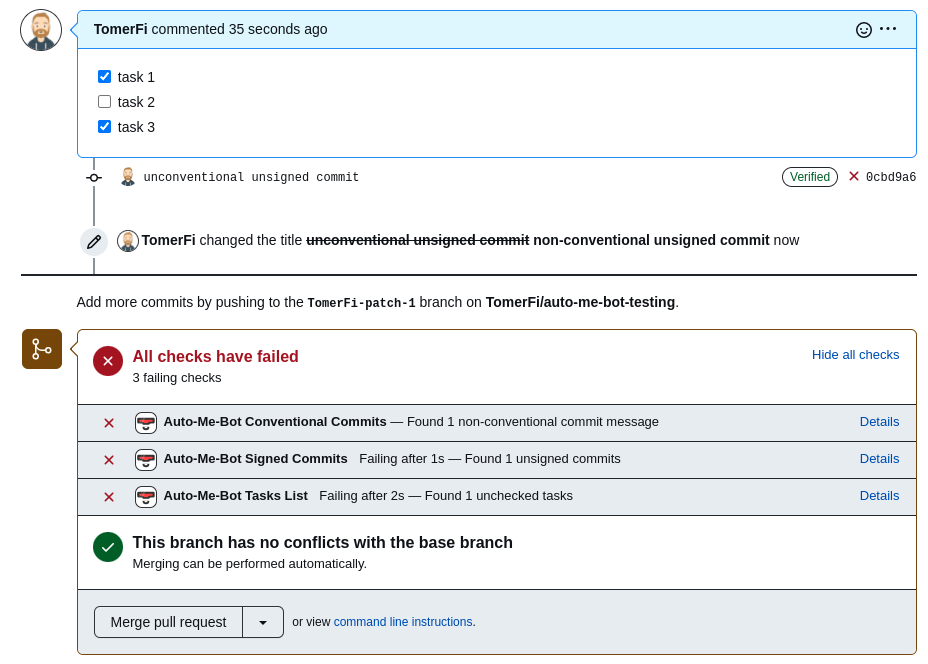
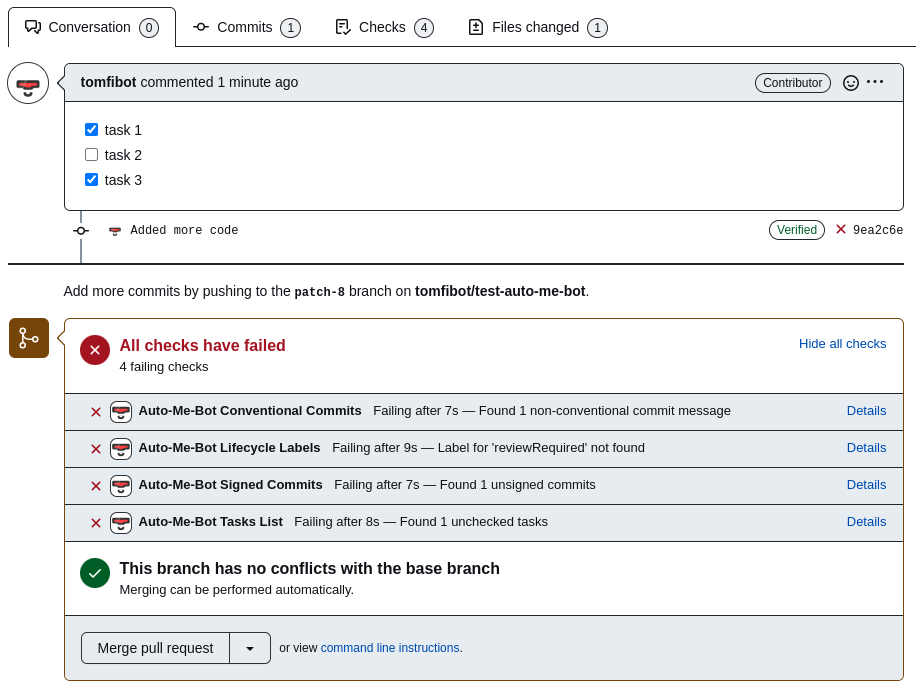
fix: lifecycle labels handler is buggy, plus added docs

Changed region(s): [[0.0, 0.3012, 1.0, 0.994], [0.0, 0.0, 1.0, 0.3012]]

diff --git a/tests/handlers/pr-lifecycle-labels.test.js b/tests/handlers/pr-lifecycle-labels.test.js
@@ -21,12 +21,12 @@ suite('Testing the pr-lifecycle-labels', () => {
 
         ['submitted', 'edited', 'dismissed'].forEach(action => {
             test(`Test pull_request_review event type with ${action} action type, expect a match` , () => {
-                expect(sut.match({ payload: { pull_request_review: {}, action: action } })).to.be.true;
+                expect(sut.match({ payload: { review: {}, pull_request: {}, action: action } })).to.be.true;
             });
         });
 
         test('Test pull_request_review event type with an unknown action type, expect a false match' , () => {
-            expect(sut.match({ payload: { pull_request_review: {}, action: 'unknownAction' } })).to.be.false;
+            expect(sut.match({ payload: { review: {}, pull_request: {}, action: 'unknownAction' } })).to.be.false;
         });
 
         test('Test an unknown event type, expect a false match', () => {
@@ -53,6 +53,8 @@ suite('Testing the pr-lifecycle-labels', () => {
         const fakePRNumber = 66;
         const fakeOwner = 'jonDoe';
         const fakeRepository = 'aProject';
+        const fakeReviewer1 = 'ReviewerReviewerzon';
+        const fakeReviewer2 = 'ReviewerNoLastName';
 
         // expected objects
         const baseExpectedUpdateCheck = {
@@ -98,7 +100,6 @@ suite('Testing the pr-lifecycle-labels', () => {
             // create a fake context for invoking the application with (base)
             baseFakeContext = Object.freeze({
                 payload: {
-                    number: fakePRNumber,
                     pull_request: {
                         base: {
                             ref: fakeBaseRef
@@ -106,7 +107,8 @@ suite('Testing the pr-lifecycle-labels', () => {
                         head: {
                             sha: fakeHeadSha
                         },
-                        labels: []
+                        labels: [],
+                        number: fakePRNumber
                     }
                 },
                 octokit: {
@@ -448,7 +450,7 @@ suite('Testing the pr-lifecycle-labels', () => {
             getLabelStub.withArgs({...getRepositoryInfoResponse, name: 'waiting 4 review'}).resolves({status: 200});
             // given the addLabels function will succeed
             addLabelsStub.resolves({status: 200});
-            // given the listReviews function will return an empty list of reviews
+            // given the listReviews function will return faulty response
             listReviewStub.withArgs({...getPullRequestInfoResponse}).resolves({status: 300, message: 'sup with that'})
             // when invoking the handler with the fake context, a fake config, and a iso timestamp
             await sut.run(fakeContext, config, new Date().toISOString());
@@ -485,7 +487,7 @@ suite('Testing the pr-lifecycle-labels', () => {
             getLabelStub.withArgs({...getRepositoryInfoResponse, name: 'waiting 4 review'}).resolves({status: 200});
             // given the addLabels function will succeed
             addLabelsStub.resolves({status: 200});
-            // given the listReviews function will return an empty list of reviews
+            // given the listReviews function will be rejected
             listReviewStub.withArgs({...getPullRequestInfoResponse}).rejects('let go');
             // when invoking the handler with the fake context, a fake config, and a iso timestamp
             await sut.run(fakeContext, config, new Date().toISOString());
@@ -514,7 +516,7 @@ suite('Testing the pr-lifecycle-labels', () => {
                 labels: {
                     changesRequested: 'changes were requested'
                 }
-            }
+            };
             // given a pull request is opened
             let fakeContext = { ...baseFakeContext }
             fakeContext.payload.action = 'opened';
@@ -522,8 +524,12 @@ suite('Testing the pr-lifecycle-labels', () => {
             getLabelStub.withArgs({...getRepositoryInfoResponse, name: 'changes were requested'}).resolves({status: 200});
             // given the addLabels function will succeed for the following argument
             addLabelsStub.resolves({status: 200});
-            // given the listReviews function will return an empty list of reviews
-            listReviewStub.withArgs({...getPullRequestInfoResponse}).resolves({status: 200, data: [{state: 'CHANGES_REQUESTED'}]})
+            // given the listReviews function will return an empty list of 1 changes requesting review
+            listReviewStub.withArgs({...getPullRequestInfoResponse}).resolves({status: 200, data: [{
+                state: 'CHANGES_REQUESTED',
+                commit_id: fakeHeadSha,
+                user: {login: fakeReviewer1}}]
+            });
             // when invoking the handler with the fake context, a fake config, and a iso timestamp
             await sut.run(fakeContext, config, new Date().toISOString());
             // then verify a check run to be created and updated as expected
@@ -557,8 +563,19 @@ suite('Testing the pr-lifecycle-labels', () => {
             getLabelStub.withArgs({...getRepositoryInfoResponse, name: 'review has started'}).resolves({status: 200});
             // given the addLabels function will succeed for the following argument
             addLabelsStub.resolves({status: 200});
-            // given the listReviews function will return an empty list of reviews
-            listReviewStub.withArgs({...getPullRequestInfoResponse}).resolves({status: 200, data: [{state: 'NOTHING_SPECIAL'}, {state: 'MAKING_UP_STATES'}]})
+            // given the listReviews function will return an empty list 2 commenting reviews
+            listReviewStub.withArgs({...getPullRequestInfoResponse}).resolves({status: 200, data: [
+                {
+                    state: 'COMMENTED',
+                    commit_id: fakeHeadSha,
+                    user: {login: fakeReviewer1}
+                },
+                {
+                    state: 'COMMENTED',
+                    commit_id: fakeHeadSha,
+                    user: {login: fakeReviewer1}
+                }
+            ]});
             // when invoking the handler with the fake context, a fake config, and a iso timestamp
             await sut.run(fakeContext, config, new Date().toISOString());
             // then verify a check run to be created and updated as expected
@@ -592,9 +609,20 @@ suite('Testing the pr-lifecycle-labels', () => {
             getLabelStub.withArgs({...getRepositoryInfoResponse, name: 'this pr is approved'}).resolves({status: 200});
             // given the addLabels function will succeed for the following argument
             addLabelsStub.resolves({status: 200});
-            // given the listReviews function will return an empty list of reviews
-            listReviewStub.withArgs({...getPullRequestInfoResponse}).resolves({status: 200, data: [{state: 'APPROVED'}, {state: 'APPROVED'}]})
-            //
+            // given the listReviews function will return an empty list of 2 approving reviews from 2 different users
+            listReviewStub.withArgs({...getPullRequestInfoResponse}).resolves({status: 200, data: [
+                {
+                    state: 'APPROVED',
+                    commit_id: fakeHeadSha,
+                    user: {login: fakeReviewer1}
+                },
+                {
+                    state: 'APPROVED',
+                    commit_id: fakeHeadSha,
+                    user: {login: fakeReviewer2}
+                }
+            ]});
+            // given the branch protection is configured to require 2 approvals
             branchProtectFuncStub.withArgs({...getRepositoryInfoResponse, branch: fakeBaseRef}).resolves({
                 status: 200,
                 data: {
@@ -636,9 +664,13 @@ suite('Testing the pr-lifecycle-labels', () => {
             getLabelStub.withArgs({...getRepositoryInfoResponse, name: 'we need more approvals'}).resolves({status: 200});
             // given the addLabels function will succeed for the following argument
             addLabelsStub.resolves({status: 200});
-            // given the listReviews function will return an empty list of reviews
-            listReviewStub.withArgs({...getPullRequestInfoResponse}).resolves({status: 200, data: [{state: 'APPROVED'}]})
-            //
+            // given the listReviews function will return an empty list of 1 approving review
+            listReviewStub.withArgs({...getPullRequestInfoResponse}).resolves({status: 200, data: [{
+                state: 'APPROVED',
+                commit_id: fakeHeadSha,
+                user: {login: fakeReviewer1}
+            }]});
+            // given the branch protection is configured to require 2 approvals
             branchProtectFuncStub.withArgs({...getRepositoryInfoResponse, branch: fakeBaseRef}).resolves({
                 status: 200,
                 data: {
@@ -658,7 +690,7 @@ suite('Testing the pr-lifecycle-labels', () => {
             expect(addLabelsStub).to.have.been.calledOnceWith({...getRepositoryInfoResponse, issue_number: fakePRNumber, labels: ['we need more approvals']});
         });
 
-        test('Test with getBranchProtection API endpoint response not successful, expect the moreReviewsRequired label to be added to the pr', async () => {
+        test('Test with getBranchProtection API endpoint response not successful, expect the approved label to be added to the pr', async () => {
             // expected check update request parts
             let expectedUpdateCheck = { ...baseExpectedUpdateCheck, ...{
                 conclusion: 'success',
@@ -670,18 +702,22 @@ suite('Testing the pr-lifecycle-labels', () => {
             // given the merged and reviewStarted lifecycle label is configured
             let config = {
                 labels: {
-                    moreReviewsRequired: 'we need more approvals'
+                    approved: 'this pr is approved'
                 }
             }
             // given a pull request is opened
             let fakeContext = { ...baseFakeContext }
             fakeContext.payload.action = 'opened';
             // given the getLabel function will resolved to code 200 indicating the label exists
-            getLabelStub.withArgs({...getRepositoryInfoResponse, name: 'we need more approvals'}).resolves({status: 200});
+            getLabelStub.withArgs({...getRepositoryInfoResponse, name: 'this pr is approved'}).resolves({status: 200});
             // given the addLabels function will succeed for the following argument
             addLabelsStub.resolves({status: 200});
-            // given the listReviews function will return an empty list of reviews
-            listReviewStub.withArgs({...getPullRequestInfoResponse}).resolves({status: 200, data: [{state: 'APPROVED'}]})
+            // given the listReviews function will return an empty list of 1 approving review
+            listReviewStub.withArgs({...getPullRequestInfoResponse}).resolves({status: 200, data: [{
+                state: 'APPROVED',
+                commit_id: fakeHeadSha,
+                user: {login: fakeReviewer1}
+            }]});
             // given the getBranchProtection function will return unsuccessful
             branchProtectFuncStub.withArgs({...getRepositoryInfoResponse, branch: fakeBaseRef}).resolves({status: 300, message: 'ok ok ok'});
             // when invoking the handler with the fake context, a fake config, and a iso timestamp
@@ -692,10 +728,10 @@ suite('Testing the pr-lifecycle-labels', () => {
             // then no label should be removed
             expect(removeLabelStub).to.have.not.been.called;
             // then the 'we need more approvals' label should be added
-            expect(addLabelsStub).to.have.been.calledOnceWith({...getRepositoryInfoResponse, issue_number: fakePRNumber, labels: ['we need more approvals']});
+            expect(addLabelsStub).to.have.been.calledOnceWith({...getRepositoryInfoResponse, issue_number: fakePRNumber, labels: ['this pr is approved']});
         });
 
-        test('Test with getBranchProtection API endpoint response promise rejection, expect the moreReviewsRequired label to be added to the pr', async () => {
+        test('Test with getBranchProtection API endpoint response promise rejection, expect the approved label to be added to the pr', async () => {
             // expected check update request parts
             let expectedUpdateCheck = { ...baseExpectedUpdateCheck, ...{
                 conclusion: 'success',
@@ -707,18 +743,22 @@ suite('Testing the pr-lifecycle-labels', () => {
             // given the merged and reviewStarted lifecycle label is configured
             let config = {
                 labels: {
-                    moreReviewsRequired: 'we need more approvals'
+                    approved: 'this pr is approved'
                 }
             }
             // given a pull request is opened
             let fakeContext = { ...baseFakeContext }
             fakeContext.payload.action = 'opened';
             // given the getLabel function will resolved to code 200 indicating the label exists
-            getLabelStub.withArgs({...getRepositoryInfoResponse, name: 'we need more approvals'}).resolves({status: 200});
+            getLabelStub.withArgs({...getRepositoryInfoResponse, name: 'this pr is approved'}).resolves({status: 200});
             // given the addLabels function will succeed for the following argument
             addLabelsStub.resolves({status: 200});
-            // given the listReviews function will return an empty list of reviews
-            listReviewStub.withArgs({...getPullRequestInfoResponse}).resolves({status: 200, data: [{state: 'APPROVED'}]})
+            // given the listReviews function will return an empty list with 1 approving review
+            listReviewStub.withArgs({...getPullRequestInfoResponse}).resolves({status: 200, data: [{
+                state: 'APPROVED',
+                commit_id: fakeHeadSha,
+                user: {login: fakeReviewer1}
+            }]});
             // given the getBranchProtection function will be rejected
             branchProtectFuncStub.withArgs({...getRepositoryInfoResponse, branch: fakeBaseRef}).rejects('get out of here');
             // when invoking the handler with the fake context, a fake config, and a iso timestamp
@@ -729,7 +769,7 @@ suite('Testing the pr-lifecycle-labels', () => {
             // then no label should be removed
             expect(removeLabelStub).to.have.not.been.called;
             // then the 'we need more approvals' label should be added
-            expect(addLabelsStub).to.have.been.calledOnceWith({...getRepositoryInfoResponse, issue_number: fakePRNumber, labels: ['we need more approvals']});
+            expect(addLabelsStub).to.have.been.calledOnceWith({...getRepositoryInfoResponse, issue_number: fakePRNumber, labels: ['this pr is approved']});
         });
     });
 });

diff --git a/src/handlers/pr-lifecycle-labels.js b/src/handlers/pr-lifecycle-labels.js
@@ -30,15 +30,16 @@ module.exports.match = function(context) {
     let eventPr = 'pull_request';
     let actionsPr = ['opened', 'edited', 'synchronize', 'closed', 'ready_for_review', 'reopened'];
 
-    let eventPrReview = 'pull_request_review';
+    let eventPrReview = 'review';
     let actionsPrReview = ['submitted', 'edited', 'dismissed'];
+
+    // keep this switch before the next one
+    if (eventPrReview in context.payload) {
+        return actionsPrReview.includes(context.payload.action);
+    }
 
     if (eventPr in context.payload) {
         return actionsPr.includes(context.payload.action);
-    }
-
-    if (eventPrReview in context.payload) {
-        return actionsPrReview.includes(context.payload.action);
     }
     return false;
 }
@@ -126,7 +127,20 @@ async function getLifecycleLabel(context) {
 
     let changeRequests = 0;
     let approvals = 0;
-    reviews.forEach(review => {
+    Object.values(reviews.reduce((finalReviews, currentReview) => {
+        // get the latest review per user_login+commit_id
+        let key = `${currentReview.user.login}-${currentReview.commit_id}`;
+        if (finalReviews && finalReviews[key]) {
+            let existing = new Date(finalReviews[key].submitted_at).getTime();
+            let current = new Date(currentReview.submitted_at).getTime();
+            if (current > existing) {
+                finalReviews[key] = currentReview;
+            }
+        } else {
+            finalReviews[key] = currentReview;
+        }
+        return finalReviews;
+    }, {})).forEach(review => {
         if (review.state === 'CHANGES_REQUESTED') {
             changeRequests++;
         }
@@ -156,7 +170,7 @@ async function getLifecycleLabel(context) {
         .catch(error => console.error(error));
 
     let requiredApprovals = baseProtections?.required_pull_request_reviews?.required_approving_review_count;
-    if (!requiredApprovals || approvals < requiredApprovals) {
+    if (approvals < requiredApprovals) {
         return LABEL_KEYS.MORE_REVIEWS_REQUIRED;
     }
     return LABEL_KEYS.APPROVED;
@@ -181,7 +195,7 @@ async function workThemLabels(context, config, report) {
         .filter(l => prLabels.includes(l));
 
     removeLabels.forEach(removeLabel =>
-        context.octokit.issues.removeLabel(context.repo({issue_number: context.payload.number, name: removeLabel}))
+        context.octokit.issues.removeLabel(context.repo({issue_number: context.payload.pull_request.number, name: removeLabel}))
             .then(response => {
                 if (response.status !== 200) {
                     let {status, message} = response;
@@ -201,7 +215,7 @@ async function workThemLabels(context, config, report) {
             report.output.summary = `Are you sure the '${addLabel}' label exists?`;
             return;
         }
-        await context.octokit.issues.addLabels(context.repo({issue_number: context.payload.number, labels: [addLabel]}))
+        await context.octokit.issues.addLabels(context.repo({issue_number: context.payload.pull_request.number, labels: [addLabel]}))
             .then(resp => {
                 if (resp.status !== 200) {
                     report.conclusion = 'failure';

diff --git a/src/auto-me-bot.js b/src/auto-me-bot.js
@@ -53,9 +53,8 @@ function handlersController(configSpec) {
     return async context => {
         // get config from current repo .github folder or from the .github repo's .github folder
         let config = await context.config('auto-me-bot.yml');
-        let contextJson = JSON.stringify(context, null, 2);
-        let configYaml = yaml.dump(config);
-        console.info({contextJson, configYaml})
+        console.info('CONTEXT\n' + JSON.stringify(context, null, 2));
+        console.info('CONFIG\n' + yaml.dump(config));
         let invocations = []
         let startedAt = new Date().toISOString();
         // iterate over user config keys, i.e. "pr"

diff --git a/docs/handlers/lifecycle-labels.md b/docs/handlers/lifecycle-labels.md
@@ -1,0 +1,34 @@
+<figure markdown>
+  ![](https://raw.githubusercontent.com/TomerFi/auto-me-bot/main/docs/img/lifecycle-labels-reviewRequired.png){ width="800" }
+  <figcaption>lifecycle labels - review required</figcaption>
+</figure>
+
+<figure markdown>
+  ![](https://raw.githubusercontent.com/TomerFi/auto-me-bot/main/docs/img/lifecycle-labels-reviewStarted.png){ width="800" }
+  <figcaption>lifecycle labels - review required</figcaption>
+</figure>
+
+<figure markdown>
+  ![](https://raw.githubusercontent.com/TomerFi/auto-me-bot/main/docs/img/lifecycle-labels-changesRequested.png){ width="800" }
+  <figcaption>lifecycle labels - changes requested</figcaption>
+</figure>
+
+<figure markdown>
+  ![](https://raw.githubusercontent.com/TomerFi/auto-me-bot/main/docs/img/lifecycle-labels-moreReviewsRequired.png){ width="800" }
+  <figcaption>lifecycle labels - more reviews required</figcaption>
+</figure>
+
+<figure markdown>
+  ![](https://raw.githubusercontent.com/TomerFi/auto-me-bot/main/docs/img/lifecycle-labels-approved.png){ width="800" }
+  <figcaption>lifecycle labels - approved</figcaption>
+</figure>
+
+<figure markdown>
+  ![](https://raw.githubusercontent.com/TomerFi/auto-me-bot/main/docs/img/lifecycle-labels-merged.png){ width="800" }
+  <figcaption>lifecycle labels - merged</figcaption>
+</figure>
+
+<figure markdown>
+  ![](https://raw.githubusercontent.com/TomerFi/auto-me-bot/main/docs/img/lifecycle-labels-check.png){ width="800" }
+  <figcaption>lifecycle labels - check report</figcaption>
+</figure>

diff --git a/docs/look-see.md b/docs/look-see.md
@@ -10,6 +10,8 @@
 
 --8<-- "docs/handlers/conventional-commits.md"
 
+--8<-- "docs/handlers/lifecycle-labels.md"
+
 --8<-- "docs/handlers/signed-commits.md"
 
 --8<-- "docs/handlers/tasks-list.md"
